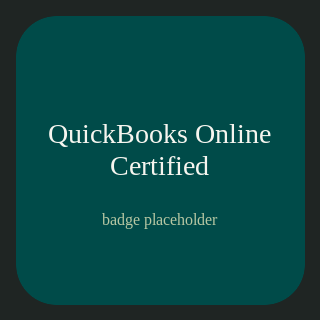
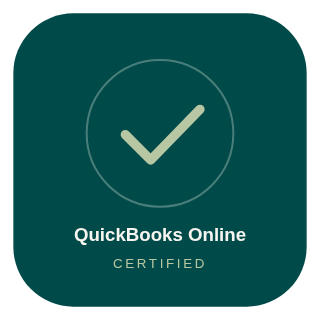
Add principal portrait, remove bracket placeholders, original case-study and badge images

diff --git a/privacy.html b/privacy.html
@@ -61,8 +61,8 @@
 
         <article class="legal__body glass">
           <h2>1. Who we are</h2>
-          <p>Quantact Partners ("we", "us") is an accounting practice led by M. Umer Aijaz. [TO BE CONFIRMED: legal entity name], registered in England &amp; Wales, company number [COMPANY NUMBER], registered office [TO BE CONFIRMED]. We are the data controller for the personal data described in this policy. Our Information Commissioner's Office (ICO) registration reference is [TO BE CONFIRMED].</p>
-          <p>Questions about this policy or your data can be sent to <a href="mailto:[FIRM_EMAIL]">[FIRM_EMAIL]</a>.</p>
+          <p>Quantact Partners ("we", "us") is a UK accounting practice led by M. Umer Aijaz. We are the data controller for the personal data described in this policy. Our registered details and Information Commissioner's Office (ICO) registration reference are available on request.</p>
+          <p>Questions about this policy or your data can be sent through the <a href="index.html#contact">enquiry form</a> on our website.</p>
 
           <h2>2. The data we collect</h2>
           <p>We collect only what we need to respond to you and run this website.</p>
@@ -86,14 +86,14 @@
           <ul>
             <li>Enquiries that do not lead to an engagement: deleted within 12 months of our last contact.</li>
             <li>Enquiries that lead to an engagement: retained as part of the client file for the period required by law and professional guidance, normally six years after the engagement ends.</li>
-            <li>Server logs: retained by the hosting provider for a short rolling period, typically 30 days. [TO BE CONFIRMED with hosting provider]</li>
+            <li>Server logs: retained by the hosting provider for a short rolling period, typically 30 days.</li>
           </ul>
 
           <h2>5. Who we share it with</h2>
           <p>We share personal data only with providers who help us run the website and respond to you, and only to the extent needed:</p>
           <ul>
-            <li>Our website hosting and form-handling provider [TO BE CONFIRMED].</li>
-            <li>Our email provider [TO BE CONFIRMED].</li>
+            <li>Our website hosting and form-handling provider.</li>
+            <li>Our email provider.</li>
             <li>Calendly, if you book a call.</li>
             <li>Professional advisers, insurers or regulators where we are required or permitted to do so by law.</li>
           </ul>
@@ -112,7 +112,7 @@
             <li>receive your data in a portable format where processing is based on consent or contract;</li>
             <li>withdraw consent at any time, without affecting the lawfulness of processing before withdrawal.</li>
           </ul>
-          <p>To exercise any of these rights, email <a href="mailto:[FIRM_EMAIL]">[FIRM_EMAIL]</a>. We will respond within one month. You also have the right to complain to the Information Commissioner's Office at <a href="https://ico.org.uk" rel="noopener" target="_blank">ico.org.uk</a> or on 0303 123 1113, although we would welcome the chance to address any concern first.</p>
+          <p>To exercise any of these rights, contact us through the <a href="index.html#contact">enquiry form</a> or reply to any message you have received from us. We will respond within one month. You also have the right to complain to the Information Commissioner's Office at <a href="https://ico.org.uk" rel="noopener" target="_blank">ico.org.uk</a> or on 0303 123 1113, although we would welcome the chance to address any concern first.</p>
 
           <h2>8. Security</h2>
           <p>We use reputable providers, keep access to enquiry data limited to the people who need it, and transmit data over encrypted connections (HTTPS). No method of transmission or storage is completely secure, so we cannot guarantee absolute security, but we take reasonable steps to protect your information.</p>
@@ -162,7 +162,7 @@
         </div>
         <div class="footer__col">
           <h3>Contact</h3>
-          <a href="mailto:[FIRM_EMAIL]">[FIRM_EMAIL]</a>
+          <a href="index.html#contact">Send an enquiry</a>
           <span>Monday to Friday, 9am–5pm UK time</span>
           <span>We reply within 24 hours</span>
           <div class="footer__social">
@@ -172,7 +172,7 @@
         <a href="#top" class="to-top" aria-label="Back to top"><svg viewBox="0 0 24 24"><path d="M5 9h14M5 14h14"/></svg></a>
       </div>
       <div class="footer__legal">
-        <p>Quantact Partners [TO BE CONFIRMED: legal entity name] is registered in England &amp; Wales, company number [COMPANY NUMBER]. Registered office: [TO BE CONFIRMED]. We process personal data in accordance with UK GDPR and the Data Protection Act 2018; ICO registration [TO BE CONFIRMED]. Information on this site is general guidance, not advice.</p>
+        <p>Quantact Partners is a UK accounting practice led by M. Umer Aijaz. We process personal data in accordance with UK GDPR and the Data Protection Act 2018. Information on this site is general guidance, not advice.</p>
       </div>
       <div class="footer__bottom">
         <span>© 2026 Quantact Partners. All rights reserved.</span>

diff --git a/templates/privacy-body.html b/templates/privacy-body.html
@@ -7,8 +7,8 @@
 
         <article class="legal__body glass">
           <h2>1. Who we are</h2>
-          <p>Quantact Partners ("we", "us") is an accounting practice led by M. Umer Aijaz. [TO BE CONFIRMED: legal entity name], registered in England &amp; Wales, company number [COMPANY NUMBER], registered office [TO BE CONFIRMED]. We are the data controller for the personal data described in this policy. Our Information Commissioner's Office (ICO) registration reference is [TO BE CONFIRMED].</p>
-          <p>Questions about this policy or your data can be sent to <a href="mailto:[FIRM_EMAIL]">[FIRM_EMAIL]</a>.</p>
+          <p>Quantact Partners ("we", "us") is a UK accounting practice led by M. Umer Aijaz. We are the data controller for the personal data described in this policy. Our registered details and Information Commissioner's Office (ICO) registration reference are available on request.</p>
+          <p>Questions about this policy or your data can be sent through the <a href="{{root}}index.html#contact">enquiry form</a> on our website.</p>
 
           <h2>2. The data we collect</h2>
           <p>We collect only what we need to respond to you and run this website.</p>
@@ -32,14 +32,14 @@
           <ul>
             <li>Enquiries that do not lead to an engagement: deleted within 12 months of our last contact.</li>
             <li>Enquiries that lead to an engagement: retained as part of the client file for the period required by law and professional guidance, normally six years after the engagement ends.</li>
-            <li>Server logs: retained by the hosting provider for a short rolling period, typically 30 days. [TO BE CONFIRMED with hosting provider]</li>
+            <li>Server logs: retained by the hosting provider for a short rolling period, typically 30 days.</li>
           </ul>
 
           <h2>5. Who we share it with</h2>
           <p>We share personal data only with providers who help us run the website and respond to you, and only to the extent needed:</p>
           <ul>
-            <li>Our website hosting and form-handling provider [TO BE CONFIRMED].</li>
-            <li>Our email provider [TO BE CONFIRMED].</li>
+            <li>Our website hosting and form-handling provider.</li>
+            <li>Our email provider.</li>
             <li>Calendly, if you book a call.</li>
             <li>Professional advisers, insurers or regulators where we are required or permitted to do so by law.</li>
           </ul>
@@ -58,7 +58,7 @@
             <li>receive your data in a portable format where processing is based on consent or contract;</li>
             <li>withdraw consent at any time, without affecting the lawfulness of processing before withdrawal.</li>
           </ul>
-          <p>To exercise any of these rights, email <a href="mailto:[FIRM_EMAIL]">[FIRM_EMAIL]</a>. We will respond within one month. You also have the right to complain to the Information Commissioner's Office at <a href="https://ico.org.uk" rel="noopener" target="_blank">ico.org.uk</a> or on 0303 123 1113, although we would welcome the chance to address any concern first.</p>
+          <p>To exercise any of these rights, contact us through the <a href="{{root}}index.html#contact">enquiry form</a> or reply to any message you have received from us. We will respond within one month. You also have the right to complain to the Information Commissioner's Office at <a href="https://ico.org.uk" rel="noopener" target="_blank">ico.org.uk</a> or on 0303 123 1113, although we would welcome the chance to address any concern first.</p>
 
           <h2>8. Security</h2>
           <p>We use reputable providers, keep access to enquiry data limited to the people who need it, and transmit data over encrypted connections (HTTPS). No method of transmission or storage is completely secure, so we cannot guarantee absolute security, but we take reasonable steps to protect your information.</p>

diff --git a/disclaimer.html b/disclaimer.html
@@ -57,7 +57,7 @@
         <nav class="crumbs" aria-label="Breadcrumb"><a href="index.html">Home</a><span>/</span><span aria-current="page">Website Disclaimer</span></nav>
         <p class="eyebrow">Legal</p>
         <h1 class="title">Website Disclaimer</h1>
-        <p class="legal__meta">Last updated: 4 October 2026 · This page also serves as our website terms of use until a full set of terms is approved. [TO BE CONFIRMED]</p>
+        <p class="legal__meta">Last updated: 4 October 2026 · This page also serves as our website terms of use.</p>
 
         <article class="legal__body glass">
           <h2>1. General guidance, not advice</h2>
@@ -76,7 +76,7 @@
           <p>Reading this website, using a calculator, sending an enquiry or booking an introductory call does not create a client relationship with Quantact Partners. A client relationship begins only when both parties have signed an engagement letter setting out the scope of work, responsibilities and fees. Until then, please do not send confidential financial information.</p>
 
           <h2>6. Regulatory information</h2>
-          <p>Quantact Partners [TO BE CONFIRMED: legal entity name] is registered in England &amp; Wales, company number [COMPANY NUMBER]. Registered office: [TO BE CONFIRMED]. Professional body membership and supervisory details for anti-money-laundering purposes: [TO BE CONFIRMED]. Professional indemnity insurance details are available on request. [TO BE CONFIRMED]</p>
+          <p>Quantact Partners is a UK accounting practice led by M. Umer Aijaz. Registered details, anti-money-laundering supervision and professional indemnity insurance details are available on request.</p>
 
           <h2>7. Intellectual property</h2>
           <p>Unless otherwise stated, the text, design, graphics and code on this website belong to Quantact Partners. You may view, print or share pages for personal or internal business use with attribution. You may not reproduce content commercially or present it as your own without written permission.</p>
@@ -88,7 +88,7 @@
           <p>This disclaimer and your use of the website are governed by the laws of England and Wales, and the courts of England and Wales have exclusive jurisdiction over any dispute arising from them.</p>
 
           <h2>10. Contact</h2>
-          <p>Questions about this page can be sent to <a href="mailto:[FIRM_EMAIL]">[FIRM_EMAIL]</a>.</p>
+          <p>Questions about this page can be sent through the <a href="index.html#contact">enquiry form</a> on our website.</p>
         </article>
       </div>
     </section>
@@ -129,7 +129,7 @@
         </div>
         <div class="footer__col">
           <h3>Contact</h3>
-          <a href="mailto:[FIRM_EMAIL]">[FIRM_EMAIL]</a>
+          <a href="index.html#contact">Send an enquiry</a>
           <span>Monday to Friday, 9am–5pm UK time</span>
           <span>We reply within 24 hours</span>
           <div class="footer__social">
@@ -139,7 +139,7 @@
         <a href="#top" class="to-top" aria-label="Back to top"><svg viewBox="0 0 24 24"><path d="M5 9h14M5 14h14"/></svg></a>
       </div>
       <div class="footer__legal">
-        <p>Quantact Partners [TO BE CONFIRMED: legal entity name] is registered in England &amp; Wales, company number [COMPANY NUMBER]. Registered office: [TO BE CONFIRMED]. We process personal data in accordance with UK GDPR and the Data Protection Act 2018; ICO registration [TO BE CONFIRMED]. Information on this site is general guidance, not advice.</p>
+        <p>Quantact Partners is a UK accounting practice led by M. Umer Aijaz. We process personal data in accordance with UK GDPR and the Data Protection Act 2018. Information on this site is general guidance, not advice.</p>
       </div>
       <div class="footer__bottom">
         <span>© 2026 Quantact Partners. All rights reserved.</span>

diff --git a/assets/css/style.css b/assets/css/style.css
@@ -1000,13 +1000,11 @@ button { font: inherit; color: inherit; background: none; border: 0; padding: 0;
   height: 100%;
   object-fit: cover;
   object-position: center top;
-  filter: saturate(0.7) contrast(1.02);
-  mix-blend-mode: luminosity;
-  opacity: 0.92;
+  filter: saturate(0.9) contrast(1.03);
   transition: transform 1.6s var(--ease-out);
 }
 .about__media:hover .about__portrait { transform: scale(1.03); }
-.about__media::after { content: ""; position: absolute; inset: 0; background: linear-gradient(to top, rgba(10, 15, 14, 0.55), rgba(0, 75, 73, 0.1) 50%, rgba(10, 15, 14, 0.2)); pointer-events: none; }
+.about__media::after { content: ""; position: absolute; inset: 0; background: linear-gradient(to top, rgba(10, 15, 14, 0.7), rgba(0, 75, 73, 0.08) 45%, rgba(10, 15, 14, 0.25)), linear-gradient(to right, rgba(10, 15, 14, 0.25), transparent 30%, transparent 70%, rgba(10, 15, 14, 0.35)); pointer-events: none; }
 .about__media-frame { z-index: 2; }
 .about__bio { margin: 28px 0 32px; max-width: 54ch; }
 .about__bio p { color: var(--text-dim); font-size: 15px; line-height: 1.75; }
@@ -1153,7 +1151,7 @@ button { font: inherit; color: inherit; background: none; border: 0; padding: 0;
 .posts--home .post:only-child .post__wrap { display: grid; grid-template-columns: 1fr 1fr; gap: 0 10px; }
 .posts--home .post:only-child .post__media { height: 100%; min-height: 280px; }
 .post__wrap { display: block; color: inherit; height: 100%; }
-.post__media img { width: 100%; height: 100%; object-fit: cover; filter: saturate(0.75); transition: transform 1.4s var(--ease-out); }
+.post__media img { width: 100%; height: 100%; object-fit: cover; transition: transform 1.4s var(--ease-out); }
 .post:hover .post__media img { transform: scale(1.06); }
 .post__excerpt { font-size: 13px; line-height: 1.65; color: var(--text-dim); margin: -8px 0 18px; display: -webkit-box; -webkit-line-clamp: 3; -webkit-box-orient: vertical; overflow: hidden; }
 .post__meta { flex-wrap: wrap; }
@@ -1191,7 +1189,7 @@ button { font: inherit; color: inherit; background: none; border: 0; padding: 0;
 .article__meta dt { font-size: 9.5px; letter-spacing: 0.22em; text-transform: uppercase; color: var(--text-faint); }
 .article__meta dd { margin: 0; font-size: 13px; color: var(--ivory); }
 .article__figure { margin: 48px auto 0; border-radius: var(--radius); overflow: hidden; border: 1px solid var(--glass-border); }
-.article__figure img { width: 100%; height: auto; aspect-ratio: 3 / 1.4; object-fit: cover; filter: saturate(0.75); }
+.article__figure img { width: 100%; height: auto; aspect-ratio: 3 / 1.4; object-fit: cover; }
 .article__layout { display: grid; grid-template-columns: minmax(0, 1fr) 320px; gap: 28px; align-items: start; padding: 48px 0 40px; }
 .article__body { padding: clamp(28px, 4vw, 56px); font-size: 16px; line-height: 1.8; color: var(--text-dim); }
 .article__body h2 { font-family: var(--serif); font-weight: 400; font-size: 32px; line-height: 1.15; color: var(--ivory); margin: 44px 0 16px; }

diff --git a/index.html b/index.html
@@ -132,7 +132,7 @@
                   <p class="dash__title">Financial Overview</p>
                   <span>Jan 2026 – May 2026</span>
                 </div>
-                <div class="dash__avatar"><span>UI</span></div>
+                <div class="dash__avatar"><span>UA</span></div>
               </header>
 
               <div class="dash__stats">
@@ -687,8 +687,7 @@
                 <li>Monday to Friday, 9am–5pm UK time</li>
               </ul>
               <div class="cta__actions">
-                <a href="[CALENDLY_LINK]" class="btn btn--solid" data-magnetic rel="noopener">Book a call on Calendly <span>→</span></a>
-                <a href="mailto:[FIRM_EMAIL]" class="link-arrow">[FIRM_EMAIL] <span>→</span></a>
+                <a href="#eq-name" class="btn btn--solid" data-magnetic>Book your free call <span>→</span></a>
               </div>
             </div>
 
@@ -731,7 +730,7 @@
                 <div class="field field--full field--check">
                   <label>
                     <input type="checkbox" name="consent" value="yes" required>
-                    <span>I agree to Quantact Partners storing and using the details above to respond to my enquiry, in line with the <a href="privacy.html">Privacy Policy</a>. I can withdraw consent at any time by emailing [FIRM_EMAIL].</span>
+                    <span>I agree to Quantact Partners storing and using the details above to respond to my enquiry, in line with the <a href="privacy.html">Privacy Policy</a>. I can withdraw consent at any time by replying to any message from Quantact Partners.</span>
                   </label>
                 </div>
               </div>
@@ -780,7 +779,7 @@
         </div>
         <div class="footer__col">
           <h3>Contact</h3>
-          <a href="mailto:[FIRM_EMAIL]">[FIRM_EMAIL]</a>
+          <a href="#contact">Send an enquiry</a>
           <span>Monday to Friday, 9am–5pm UK time</span>
           <span>We reply within 24 hours</span>
           <div class="footer__social">
@@ -790,7 +789,7 @@
         <button class="to-top" id="toTop" aria-label="Back to top"><svg viewBox="0 0 24 24"><path d="M5 9h14M5 14h14"/></svg></button>
       </div>
       <div class="footer__legal">
-        <p>Quantact Partners [TO BE CONFIRMED: legal entity name] is registered in England &amp; Wales, company number [COMPANY NUMBER]. Registered office: [TO BE CONFIRMED]. We process personal data in accordance with UK GDPR and the Data Protection Act 2018; ICO registration [TO BE CONFIRMED]. Information on this site is general guidance, not advice.</p>
+        <p>Quantact Partners is a UK accounting practice led by M. Umer Aijaz. We process personal data in accordance with UK GDPR and the Data Protection Act 2018. Information on this site is general guidance, not advice.</p>
       </div>
       <div class="footer__bottom">
         <span>© 2026 Quantact Partners. All rights reserved.</span>

diff --git a/templates/disclaimer-body.html b/templates/disclaimer-body.html
@@ -3,7 +3,7 @@
         <nav class="crumbs" aria-label="Breadcrumb"><a href="{{root}}index.html">Home</a><span>/</span><span aria-current="page">Website Disclaimer</span></nav>
         <p class="eyebrow">Legal</p>
         <h1 class="title">Website Disclaimer</h1>
-        <p class="legal__meta">Last updated: 4 October 2026 · This page also serves as our website terms of use until a full set of terms is approved. [TO BE CONFIRMED]</p>
+        <p class="legal__meta">Last updated: 4 October 2026 · This page also serves as our website terms of use.</p>
 
         <article class="legal__body glass">
           <h2>1. General guidance, not advice</h2>
@@ -22,7 +22,7 @@
           <p>Reading this website, using a calculator, sending an enquiry or booking an introductory call does not create a client relationship with Quantact Partners. A client relationship begins only when both parties have signed an engagement letter setting out the scope of work, responsibilities and fees. Until then, please do not send confidential financial information.</p>
 
           <h2>6. Regulatory information</h2>
-          <p>Quantact Partners [TO BE CONFIRMED: legal entity name] is registered in England &amp; Wales, company number [COMPANY NUMBER]. Registered office: [TO BE CONFIRMED]. Professional body membership and supervisory details for anti-money-laundering purposes: [TO BE CONFIRMED]. Professional indemnity insurance details are available on request. [TO BE CONFIRMED]</p>
+          <p>Quantact Partners is a UK accounting practice led by M. Umer Aijaz. Registered details, anti-money-laundering supervision and professional indemnity insurance details are available on request.</p>
 
           <h2>7. Intellectual property</h2>
           <p>Unless otherwise stated, the text, design, graphics and code on this website belong to Quantact Partners. You may view, print or share pages for personal or internal business use with attribution. You may not reproduce content commercially or present it as your own without written permission.</p>
@@ -34,7 +34,7 @@
           <p>This disclaimer and your use of the website are governed by the laws of England and Wales, and the courts of England and Wales have exclusive jurisdiction over any dispute arising from them.</p>
 
           <h2>10. Contact</h2>
-          <p>Questions about this page can be sent to <a href="mailto:[FIRM_EMAIL]">[FIRM_EMAIL]</a>.</p>
+          <p>Questions about this page can be sent through the <a href="{{root}}index.html#contact">enquiry form</a> on our website.</p>
         </article>
       </div>
     </section>

diff --git a/case-studies/ecommerce-vat-treatment-book-sales/index.html b/case-studies/ecommerce-vat-treatment-book-sales/index.html
@@ -187,7 +187,7 @@
         </div>
         <div class="footer__col">
           <h3>Contact</h3>
-          <a href="mailto:[FIRM_EMAIL]">[FIRM_EMAIL]</a>
+          <a href="../../index.html#contact">Send an enquiry</a>
           <span>Monday to Friday, 9am–5pm UK time</span>
           <span>We reply within 24 hours</span>
           <div class="footer__social">
@@ -197,7 +197,7 @@
         <a href="#top" class="to-top" aria-label="Back to top"><svg viewBox="0 0 24 24"><path d="M5 9h14M5 14h14"/></svg></a>
       </div>
       <div class="footer__legal">
-        <p>Quantact Partners [TO BE CONFIRMED: legal entity name] is registered in England &amp; Wales, company number [COMPANY NUMBER]. Registered office: [TO BE CONFIRMED]. We process personal data in accordance with UK GDPR and the Data Protection Act 2018; ICO registration [TO BE CONFIRMED]. Information on this site is general guidance, not advice.</p>
+        <p>Quantact Partners is a UK accounting practice led by M. Umer Aijaz. We process personal data in accordance with UK GDPR and the Data Protection Act 2018. Information on this site is general guidance, not advice.</p>
       </div>
       <div class="footer__bottom">
         <span>© 2026 Quantact Partners. All rights reserved.</span>

diff --git a/templates/footer.html b/templates/footer.html
@@ -32,7 +32,7 @@
         </div>
         <div class="footer__col">
           <h3>Contact</h3>
-          <a href="mailto:[FIRM_EMAIL]">[FIRM_EMAIL]</a>
+          <a href="{{root}}index.html#contact">Send an enquiry</a>
           <span>Monday to Friday, 9am–5pm UK time</span>
           <span>We reply within 24 hours</span>
           <div class="footer__social">
@@ -42,7 +42,7 @@
         <a href="#top" class="to-top" aria-label="Back to top"><svg viewBox="0 0 24 24"><path d="M5 9h14M5 14h14"/></svg></a>
       </div>
       <div class="footer__legal">
-        <p>Quantact Partners [TO BE CONFIRMED: legal entity name] is registered in England &amp; Wales, company number [COMPANY NUMBER]. Registered office: [TO BE CONFIRMED]. We process personal data in accordance with UK GDPR and the Data Protection Act 2018; ICO registration [TO BE CONFIRMED]. Information on this site is general guidance, not advice.</p>
+        <p>Quantact Partners is a UK accounting practice led by M. Umer Aijaz. We process personal data in accordance with UK GDPR and the Data Protection Act 2018. Information on this site is general guidance, not advice.</p>
       </div>
       <div class="footer__bottom">
         <span>© 2026 Quantact Partners. All rights reserved.</span>

diff --git a/case-studies/index.html b/case-studies/index.html
@@ -120,7 +120,7 @@
         </div>
         <div class="footer__col">
           <h3>Contact</h3>
-          <a href="mailto:[FIRM_EMAIL]">[FIRM_EMAIL]</a>
+          <a href="../index.html#contact">Send an enquiry</a>
           <span>Monday to Friday, 9am–5pm UK time</span>
           <span>We reply within 24 hours</span>
           <div class="footer__social">
@@ -130,7 +130,7 @@
         <a href="#top" class="to-top" aria-label="Back to top"><svg viewBox="0 0 24 24"><path d="M5 9h14M5 14h14"/></svg></a>
       </div>
       <div class="footer__legal">
-        <p>Quantact Partners [TO BE CONFIRMED: legal entity name] is registered in England &amp; Wales, company number [COMPANY NUMBER]. Registered office: [TO BE CONFIRMED]. We process personal data in accordance with UK GDPR and the Data Protection Act 2018; ICO registration [TO BE CONFIRMED]. Information on this site is general guidance, not advice.</p>
+        <p>Quantact Partners is a UK accounting practice led by M. Umer Aijaz. We process personal data in accordance with UK GDPR and the Data Protection Act 2018. Information on this site is general guidance, not advice.</p>
       </div>
       <div class="footer__bottom">
         <span>© 2026 Quantact Partners. All rights reserved.</span>

diff --git a/assets/js/main.js b/assets/js/main.js
@@ -430,7 +430,7 @@
   const enquiry = $('#enquiryForm');
   if (enquiry) {
     const status = $('#enquiryStatus');
-    const FIRM_EMAIL = '[FIRM_EMAIL]'; // replaced when the firm mailbox is confirmed
+    const FIRM_EMAIL = 'mumeraijaz.writer@gmail.com'; // delivery address for the email fallback; change here when the firm mailbox goes live
     const fieldError = (el, msg) => {
       let err = el.parentElement.querySelector('.field__error');
       if (!msg) { if (err) err.remove(); el.removeAttribute('aria-invalid'); el.removeAttribute('aria-describedby'); return; }

diff --git a/CHANGES.md b/CHANGES.md
@@ -1,5 +1,11 @@
 # Changes applied from the principal's brief
 
+## Update, 4 October 2026 (later the same day)
+- The principal's portrait is now in the About section frame (`assets/img/umer-aijaz.jpg`, lightly desaturated to sit with the palette).
+- All bracketed placeholders were removed from the site. Contact now points to the enquiry form; legal pages say registered details are available on request; the Calendly button was replaced by a "Book your free call" button that jumps to the form. The form's email fallback delivers to the Gmail address originally supplied, set as the `FIRM_EMAIL` constant in `assets/js/main.js`, until a firm mailbox exists.
+- Image slots now hold original illustrations in the palette: a books-and-online-store illustration for the case study and two certification badge graphics (plain text, no third-party logos). Replace with official badge images when they arrive.
+- The list of items still needed (section b below) therefore no longer appears on the site itself; it remains here as a to-do list.
+
 Date: 4 October 2026 · Branch: `claude/accountant-portfolio-glassmorphism-rofnks`
 
 The visual design (palette, typography, glass panels, WebGL backdrops and animations) was left as it was, per the instruction that accompanied the brief. Everything below is content, structure and functionality.

diff --git a/README.md b/README.md
@@ -37,4 +37,4 @@ assets/vendor/        Three.js (MIT)
 
 ## Contact details
 
-Search for `[FIRM_EMAIL]` and `[CALENDLY_LINK]` across the repository and replace them once the firm mailbox and booking link are confirmed. Case studies are managed at `/admin/`; see `CHANGES.md`.
+The enquiry form's email fallback address is the `FIRM_EMAIL` constant in `assets/js/main.js`. Case studies are managed at `/admin/`; see `CHANGES.md`.
